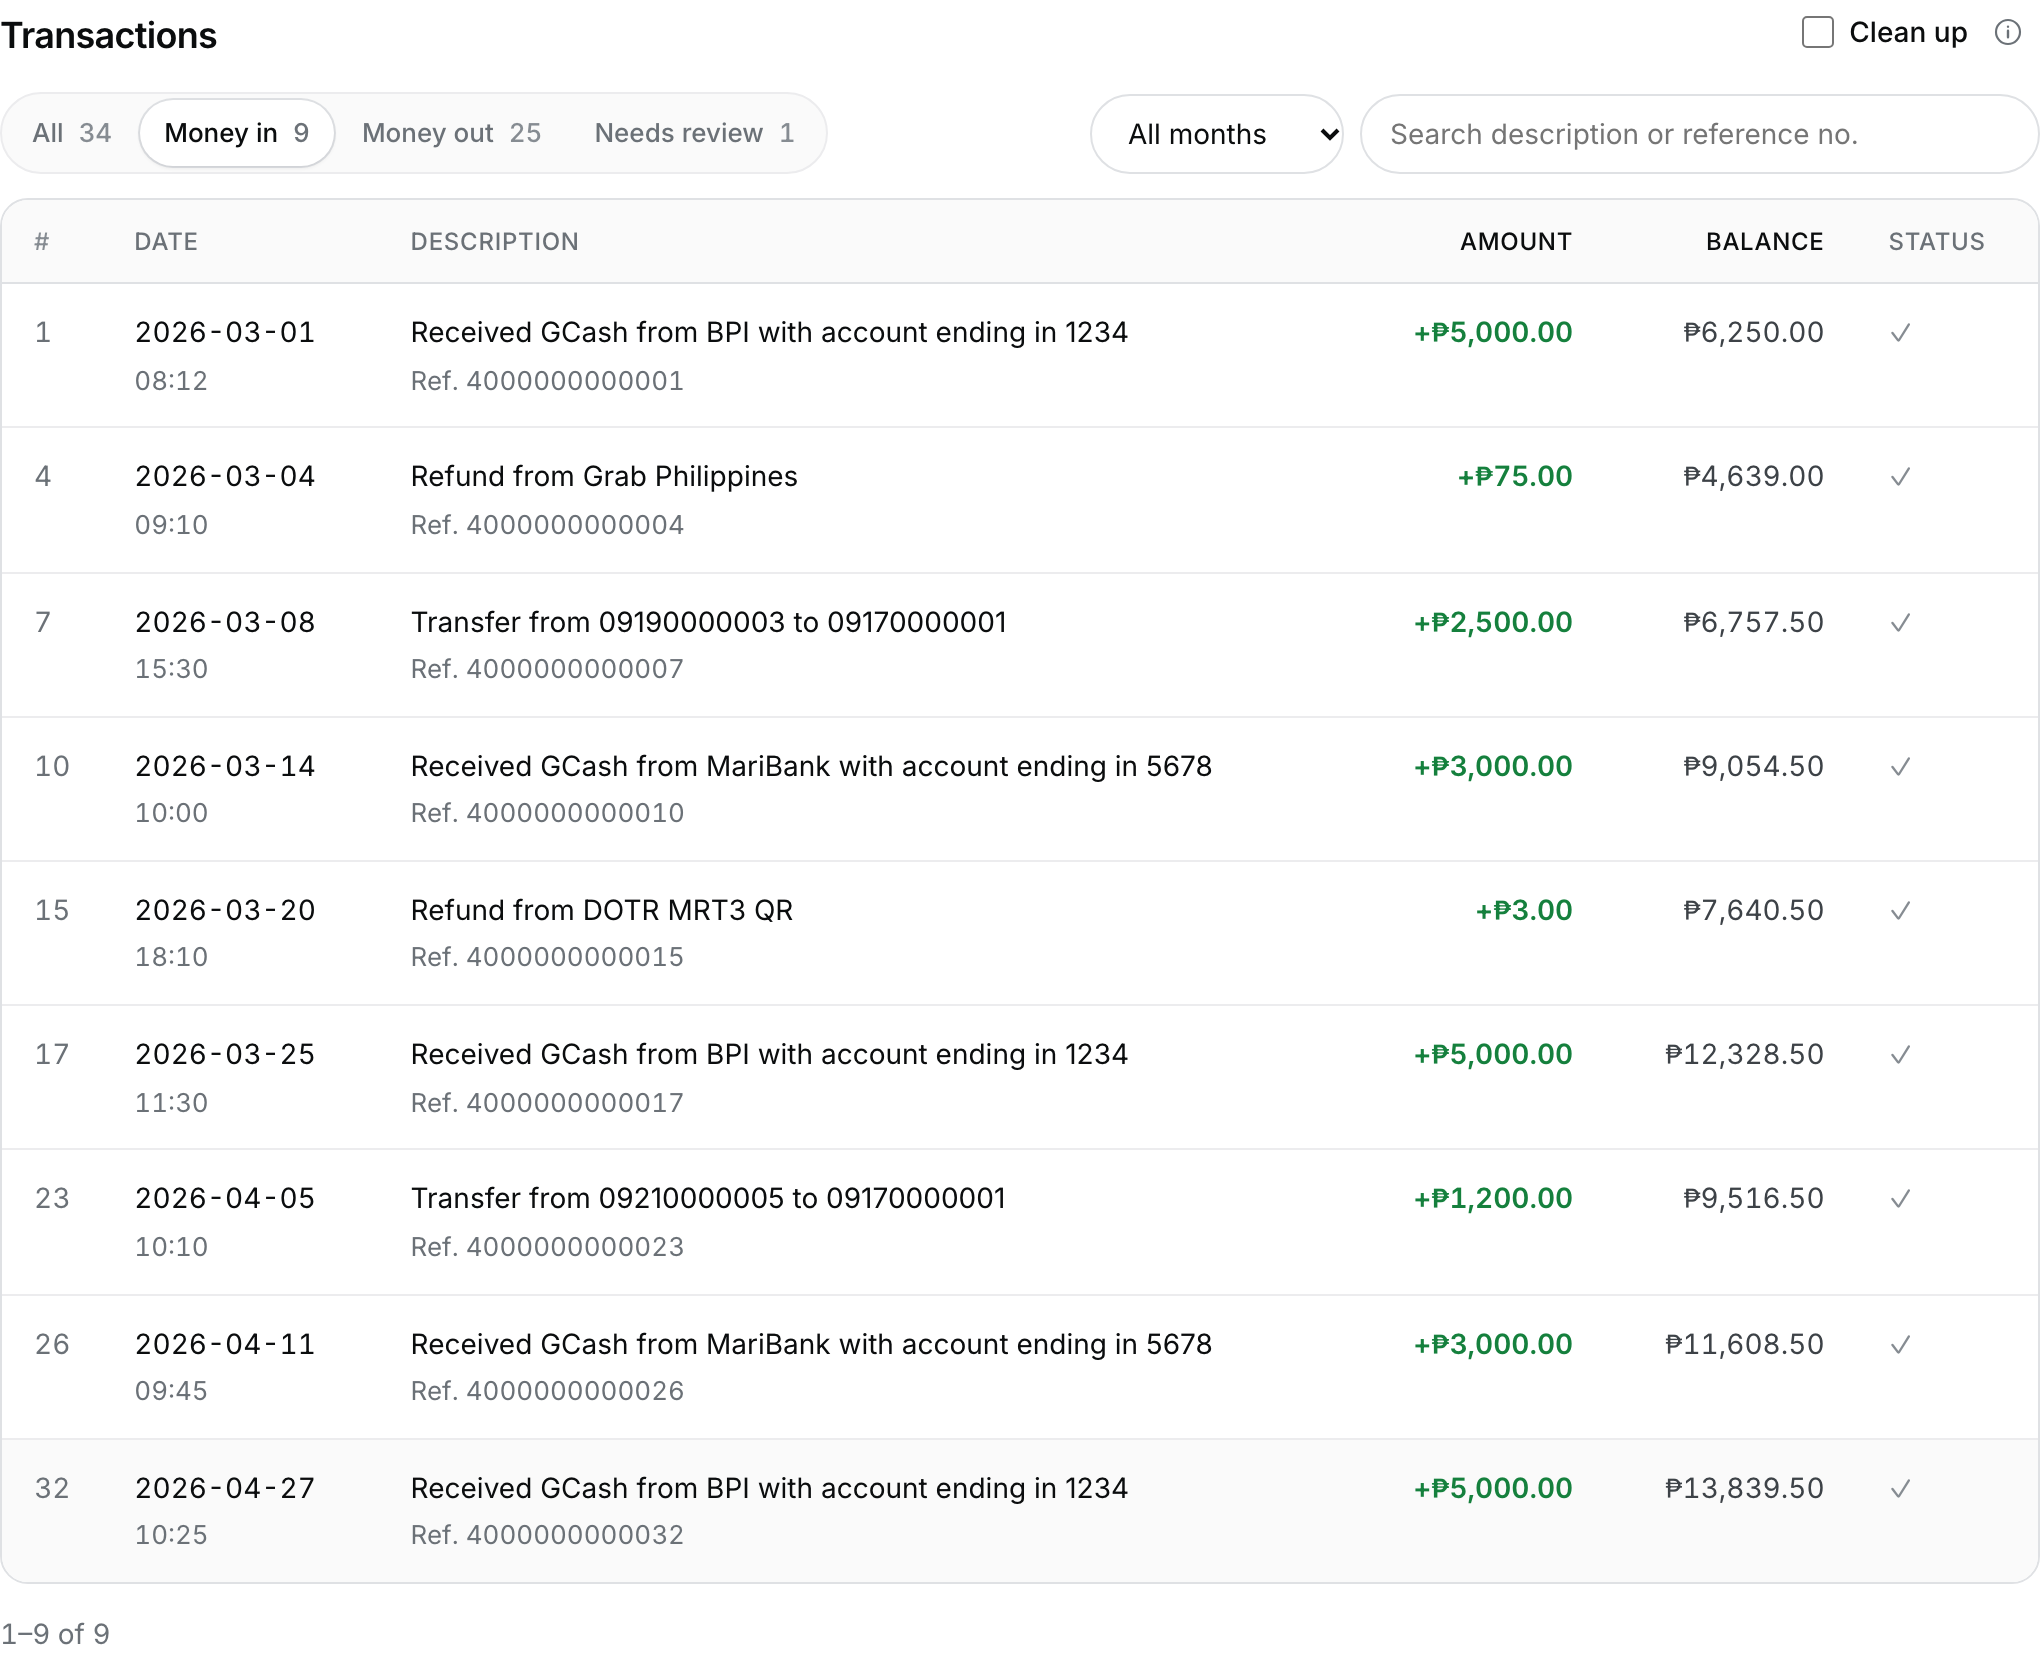
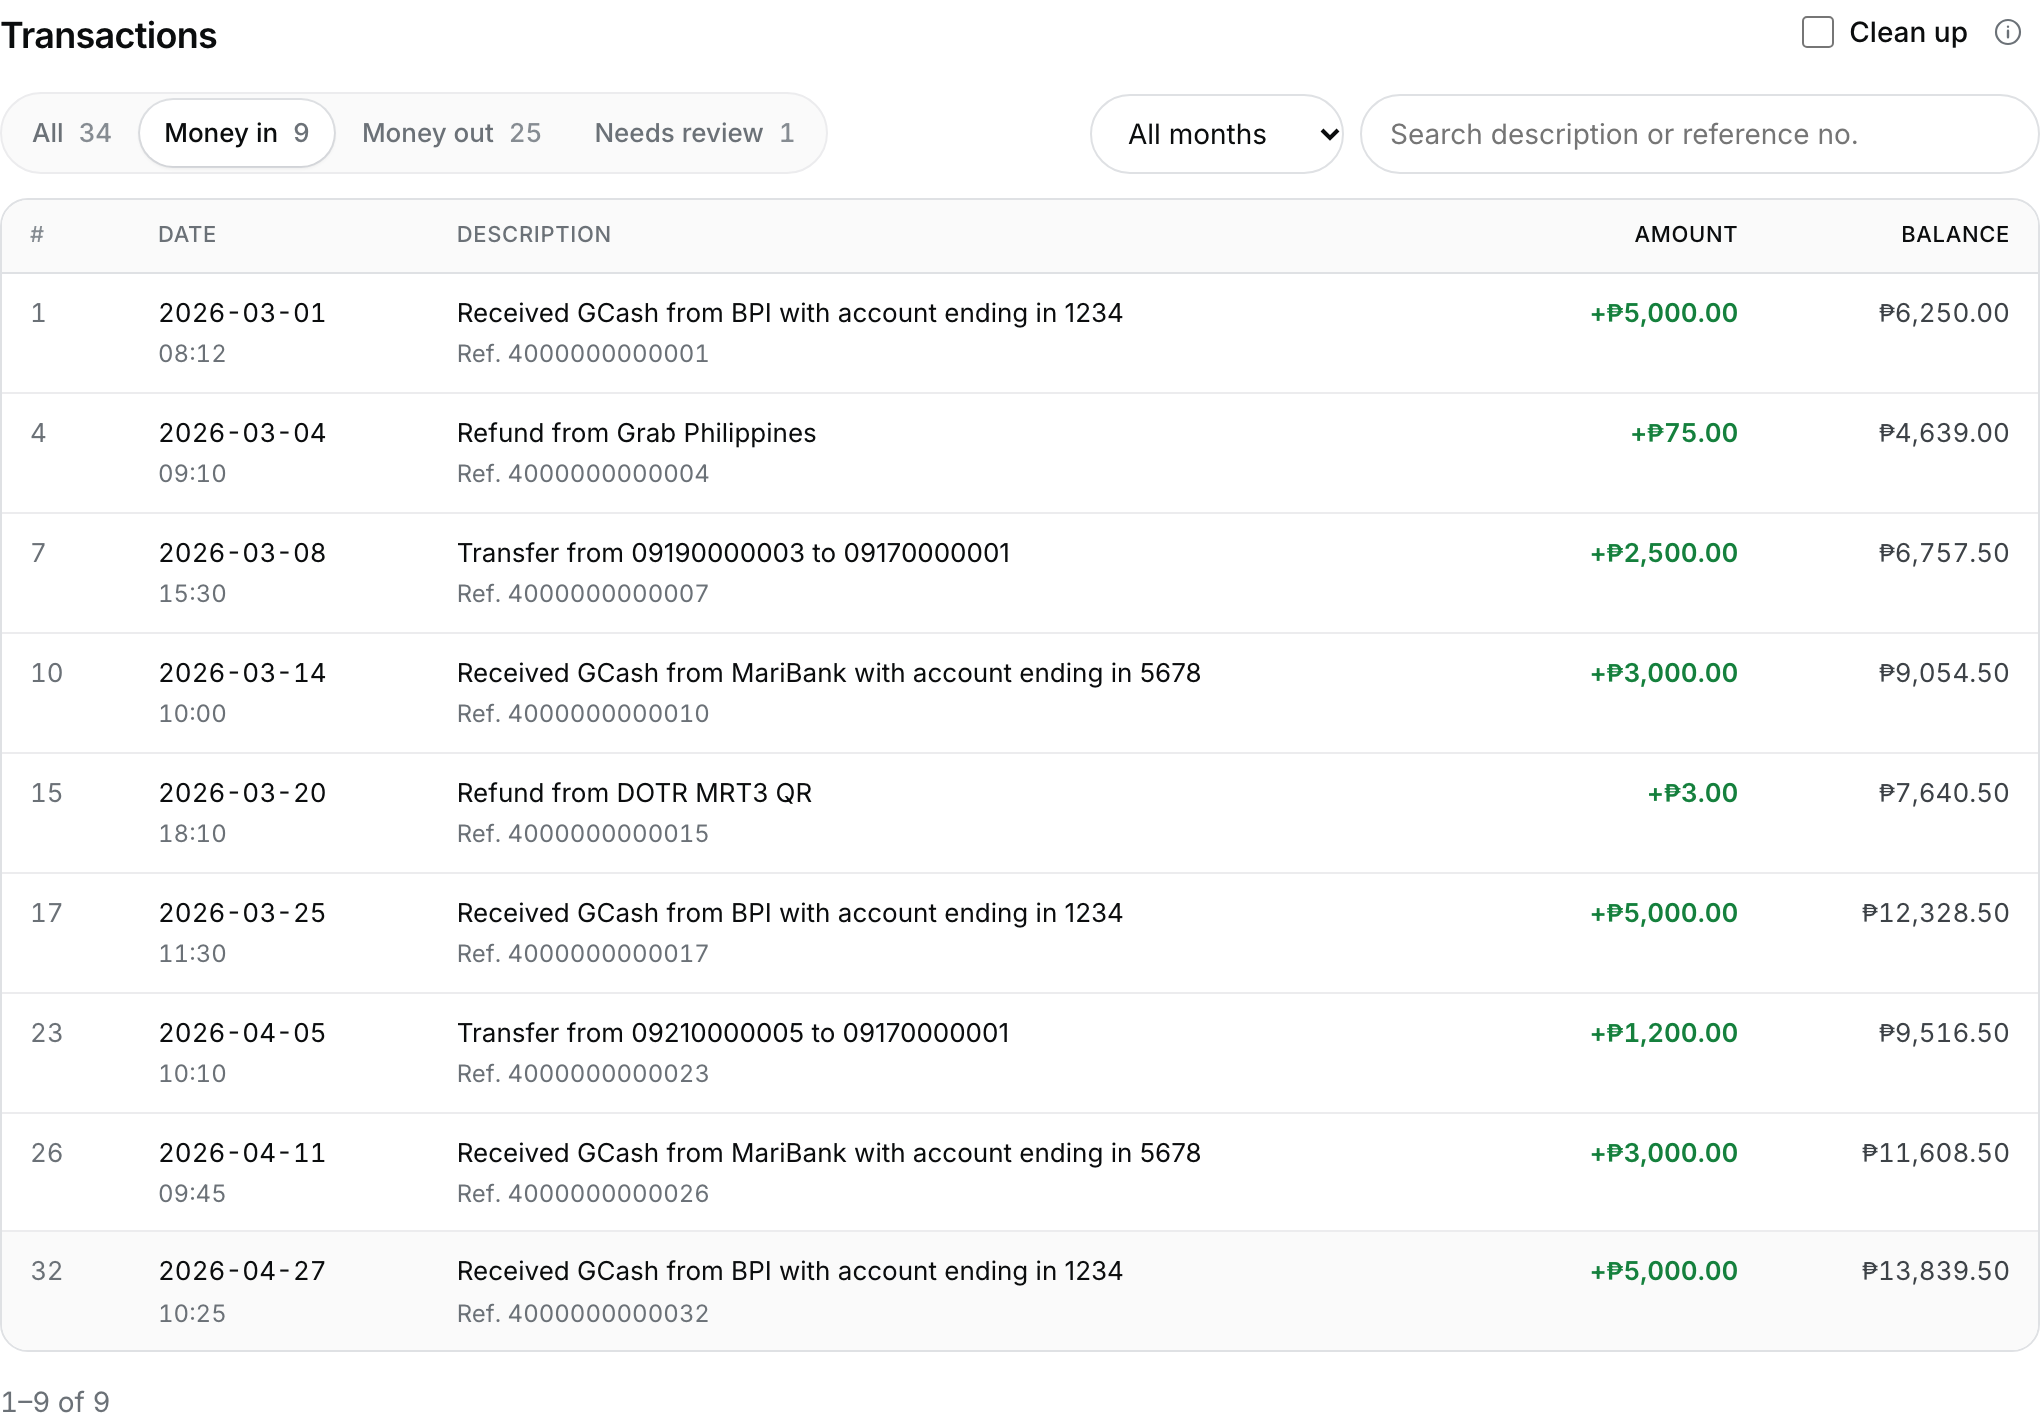
Transactions: warning sign instead of a Status column; denser table
- Remove the Status column; flagged rows show a small ⚠ next to the row number (start of
  the card on phones) with the reason as a tooltip and screen-reader text
- Smaller text and tighter rows on desktop for 20 rows per page
- Tests, blog copy and screenshots updated

diff --git a/src/scripts/converter.ts b/src/scripts/converter.ts
@@ -382,21 +382,38 @@ function renderMonths(s: Summary) {
   select.hidden = s.months.length < 2;
 }
 
-function statusPill(tx: Transaction) {
+const WARN_ICON = "M12 3.5 2.5 20h19L12 3.5Zm0 6v5m0 2.6v.1";
+
+/** Why a row is flagged, or null when it's fine. */
+function rowWarning(tx: Transaction): string | null {
   const tb = r.table;
-  if (tx.flags?.length) return h("span", "pill pill-warn", tb.statusRead);
-  if (tx.balanceIssue?.kind === "unchanged") return h("span", "pill pill-warn", tb.statusUnchanged);
-  if (tx.balanceIssue) {
-    return h(
-      "span",
-      "pill pill-warn",
-      fill(tb.statusDifferent, { amount: signed(tx.balanceIssue.difference) }),
-    );
-  }
-  const ok = h("span", "status-ok", "✓");
-  ok.setAttribute("aria-label", tb.statusOk);
-  ok.title = tb.statusOk;
-  return ok;
+  if (tx.flags?.length) return tb.warnRead;
+  if (tx.balanceIssue?.kind === "unchanged") return tb.warnUnchanged;
+  if (tx.balanceIssue)
+    return fill(tb.warnDifferent, { amount: signed(tx.balanceIssue.difference) });
+  return null;
+}
+
+/** Small warning sign (with an accessible reason) shown in the first column of flagged rows. */
+function warnIcon(reason: string) {
+  const wrap = h("span", "row-warn");
+  wrap.title = reason;
+  const svgNs = "http://www.w3.org/2000/svg";
+  const svg = document.createElementNS(svgNs, "svg");
+  svg.setAttribute("viewBox", "0 0 24 24");
+  svg.setAttribute("width", "16");
+  svg.setAttribute("height", "16");
+  svg.setAttribute("aria-hidden", "true");
+  const path = document.createElementNS(svgNs, "path");
+  path.setAttribute("d", WARN_ICON);
+  path.setAttribute("fill", "none");
+  path.setAttribute("stroke", "currentColor");
+  path.setAttribute("stroke-width", "1.8");
+  path.setAttribute("stroke-linecap", "round");
+  path.setAttribute("stroke-linejoin", "round");
+  svg.append(path);
+  wrap.append(svg, h("span", "visually-hidden", reason));
+  return wrap;
 }
 
 function txRow({ row, tx }: IndexedTx) {
@@ -404,8 +421,11 @@ function txRow({ row, tx }: IndexedTx) {
   const tr = h("tr");
   if (needsReview(tx)) tr.className = "flagged";
 
-  const num = h("td", "col-row tabular", String(row));
+  const num = h("td", "col-row tabular");
   num.dataset.label = c.row;
+  num.append(h("span", "row-n", String(row)));
+  const warning = rowWarning(tx);
+  if (warning) num.append(warnIcon(warning));
 
   const date = h("td", "col-date tabular");
   date.dataset.label = c.date;
@@ -428,11 +448,7 @@ function txRow({ row, tx }: IndexedTx) {
   const balance = h("td", "num col-balance", tx.balance !== undefined ? peso(tx.balance) : "");
   balance.dataset.label = c.balance;
 
-  const status = h("td", "col-status");
-  status.dataset.label = c.status;
-  status.append(statusPill(tx));
-
-  tr.append(num, date, desc, amount, balance, status);
+  tr.append(num, date, desc, amount, balance);
   return tr;
 }
 

diff --git a/src/styles/global.css b/src/styles/global.css
@@ -987,11 +987,20 @@ tbody tr:last-child > * {
 
 /* transactions table */
 .tx-table .col-row {
-  width: 48px;
+  width: 64px;
   color: var(--faint);
 }
 .tx-table td.col-row {
   color: var(--muted);
+}
+.tx-table td.col-row .row-warn {
+  vertical-align: -3px;
+}
+.row-warn {
+  display: inline-flex;
+  margin-left: 8px;
+  color: var(--warn-text);
+  cursor: help;
 }
 .tx-table .col-date {
   white-space: nowrap;
@@ -1064,11 +1073,6 @@ tbody tr:last-child > * {
   align-self: center;
   padding: 0 4px;
   color: var(--faint);
-}
-
-.status-ok {
-  color: var(--faint);
-  font-size: 0.875rem;
 }
 
 /* Phones: tables become cards. */
@@ -1150,8 +1154,7 @@ tbody tr:last-child > * {
     grid-template-columns: 1fr auto;
     grid-template-areas:
       "desc amount"
-      "date balance"
-      "status status";
+      "date balance";
     gap: 4px 12px;
     padding: 14px 16px;
     margin-bottom: 8px;
@@ -1171,6 +1174,25 @@ tbody tr:last-child > * {
   }
   .tx-table td.col-row {
     display: none;
+  }
+  /* Phones: no row numbers; flagged cards show the warning sign at the start. */
+  .tx-table tbody tr.flagged {
+    grid-template-columns: auto 1fr auto;
+    grid-template-areas:
+      "flag desc amount"
+      "flag date balance";
+  }
+  .tx-table tr.flagged td.col-row {
+    display: block;
+    grid-area: flag;
+    width: auto;
+    padding-top: 1px;
+  }
+  .tx-table td.col-row .row-n {
+    display: none;
+  }
+  .tx-table td.col-row .row-warn {
+    margin-left: 0;
   }
   .tx-table td.col-desc {
     grid-area: desc;
@@ -1201,12 +1223,6 @@ tbody tr:last-child > * {
   }
   .tx-table td.col-balance:empty::before {
     content: "";
-  }
-  .tx-table td.col-status {
-    grid-area: status;
-  }
-  .tx-table tr:not(.flagged) td.col-status {
-    display: none;
   }
   .tx-toolbar,
   .tx-controls {
@@ -2024,5 +2040,23 @@ main.page-top {
 @media (min-width: 720px) {
   .panel[data-state="done"] {
     padding: 64px 64px 48px;
+  }
+}
+
+/* Denser transactions table: 20 rows per page. */
+@media (min-width: 720px) {
+  .tx-table {
+    font-size: 0.8125rem;
+  }
+  .tx-table thead th {
+    padding: 9px 14px;
+    font-size: 0.6875rem;
+  }
+  .tx-table td {
+    padding: 9px 14px;
+  }
+  .tx-table .cell-sub {
+    margin-top: 1px;
+    font-size: 0.75rem;
   }
 }

diff --git a/e2e/converter.spec.ts b/e2e/converter.spec.ts
@@ -132,7 +132,8 @@ test("points out balance gaps without changing the figures", async ({ page }) =>
   const row5 = page.locator("#tx-body tr").nth(4);
   await expect(row5).toHaveClass(/flagged/);
   await expect(row5).toContainText("₱2,855.00");
-  await expect(row5).toContainText("Balance unchanged");
+  await expect(row5.locator(".row-warn")).toHaveAttribute("title", "Balance didn't change");
+  await expect(page.locator("#tx-body .row-warn")).toHaveCount(2); // only the flagged rows
 });
 
 test("explains files it can't convert and stays on the first step", async ({ page }) => {
@@ -213,7 +214,7 @@ test("statement details: pages of 20, filters, months, search and rows to review
   await page.selectOption("#month-filter", "");
   await page.fill("#tx-search", "4000000000031");
   await expect(rows).toHaveCount(1);
-  await expect(rows.first()).toContainText("Balance unchanged");
+  await expect(rows.first().locator(".row-warn")).toHaveAttribute("title", "Balance didn't change");
   await page.fill("#tx-search", "no such thing");
   await expect(page.locator("#tx-empty")).toBeVisible();
 
@@ -224,7 +225,7 @@ test("statement details: pages of 20, filters, months, search and rows to review
   await expect(page.locator('[data-filter="review"]')).toHaveAttribute("aria-pressed", "true");
   await expect(rows).toHaveCount(3);
   await expect(page.locator("#tx-body tr.flagged")).toHaveCount(3);
-  await expect(page.locator("#tx-body .col-row")).toHaveText(["8", "9", "31"]);
+  await expect(page.locator("#tx-body .row-n")).toHaveText(["8", "9", "31"]);
 });
 
 test("try a sample statement: runs the real converter on the bundled FAKE PDF", async ({

diff --git a/src/site.ts b/src/site.ts
@@ -136,13 +136,11 @@ export const strings = {
             description: "Description",
             amount: "Amount",
             balance: "Balance",
-            status: "Status",
           },
           ref: "Ref. {ref}",
-          statusOk: "OK",
-          statusUnchanged: "Balance unchanged",
-          statusDifferent: "Off by {amount}",
-          statusRead: "Check this row",
+          warnUnchanged: "Balance didn't change",
+          warnDifferent: "Balance off by {amount}",
+          warnRead: "Check this row against your PDF",
         },
       },
     },

diff --git a/src/content/blog/gcash-statement-to-excel-guide.md b/src/content/blog/gcash-statement-to-excel-guide.md
@@ -79,7 +79,7 @@ pick a month, or search by description or reference number to find a row from yo
 Turn on **Clean up** to leave out transactions that didn't change your balance; it also applies to
 your download.
 
-![The transactions table filtered to "Money in", showing date and time, description with reference number, amount, balance and status for each row.](./images/gcash-statement-to-excel-guide/7-transactions.png)
+![The transactions table filtered to "Money in", showing date and time, description with reference number, amount and balance for each row.](./images/gcash-statement-to-excel-guide/7-transactions.png)
 
 ## Step 5: Open it
 
@@ -95,5 +95,5 @@ your download.
   original PDF from GCash.
 - **"This doesn't look like a GCash Transaction History PDF":** only GCash statements are supported
   for now.
-- **Some rows say "Balance unchanged":** see Step 4. The figures come straight from your statement;
+- **Some rows have a ⚠ sign:** their running balance doesn't follow (hover it to see why); see Step 4. The figures come straight from your statement;
   nothing is changed.
